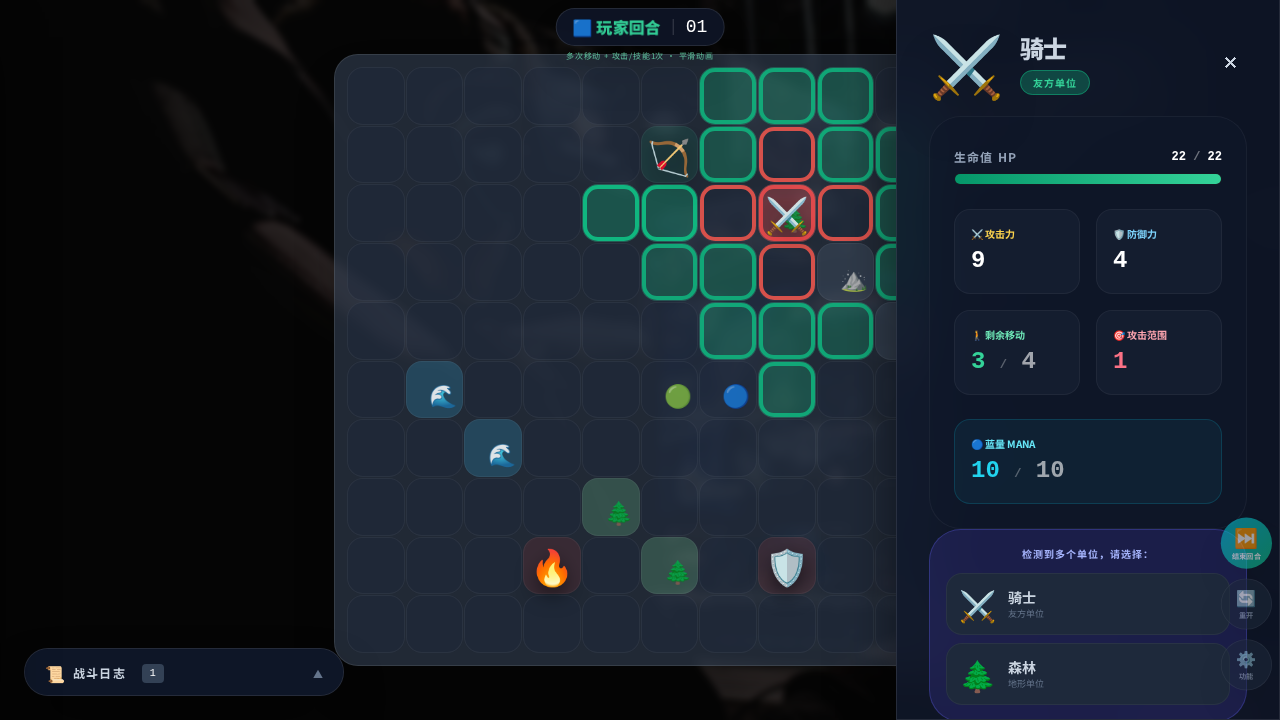
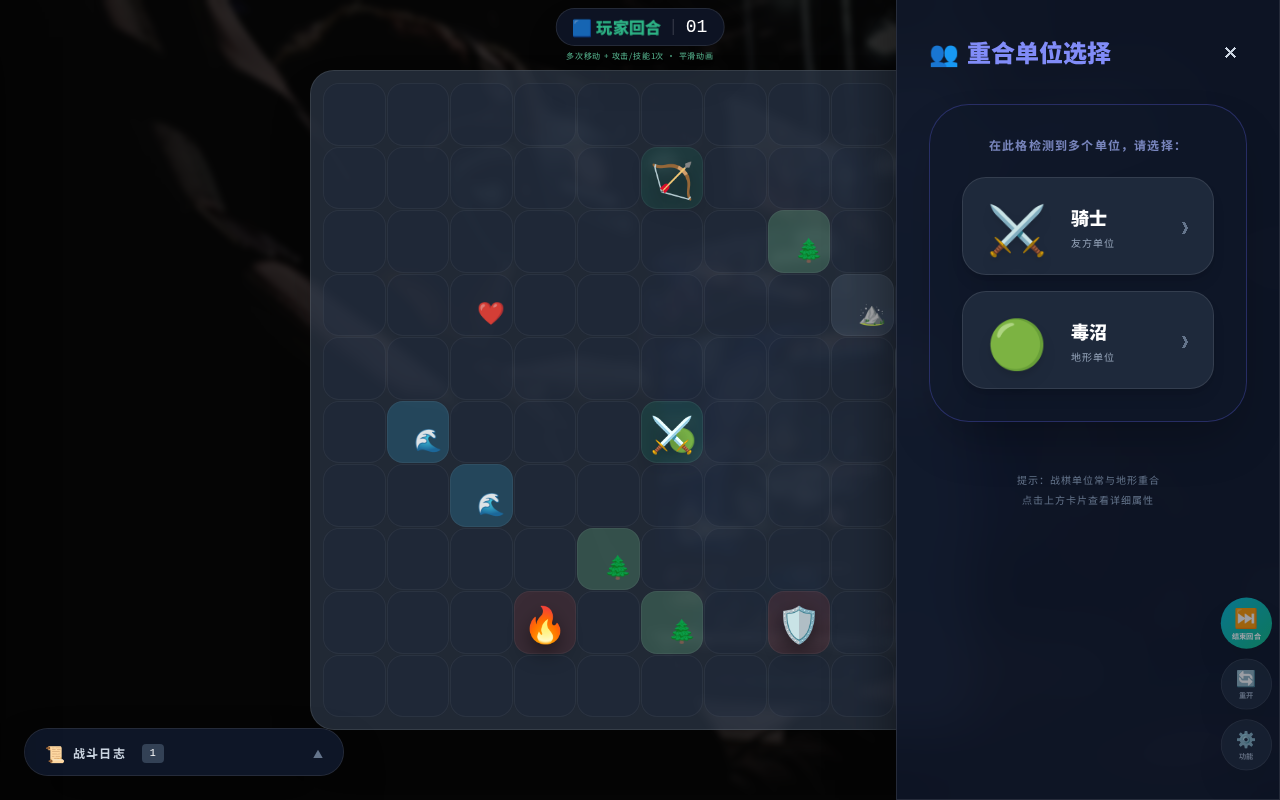
feat: enhance overlap selection UI and dynamic movement range
- Refactored Overlap Selector to occupy the full sidebar, providing a cleaner interface for choosing between overlapping units (combat vs terrain).
- Optimized movement highlighting to dynamically shrink based on the unit's actual remaining movement points.
- Simplified range calculation logic by removing redundant 'forestModifier' and consistently using the unified status-aware range functions.
- Fully removed 'ultimate skill' distinction from the editor UI.
- Verified all logic with unit tests and Playwright E2E scripts.

diff --git a/script.js b/script.js
@@ -771,7 +771,6 @@ export function createCombatUnit(base) {
         skills: [...(template.skills || [])],
         remainingMove: template.moveRange,
         hasAttacked: false,
-        forestModifier: false,
         skillUsedThisTurn: false,
         activeEffects: []
     };
@@ -1025,8 +1024,7 @@ function highlightRanges() {
         return;
     }
 
-    let maxMove = (sel.team === "friendly") ? entity.remainingMove : getEffectiveMoveRange(entity);
-    if (maxMove <= 0) maxMove = 0;
+    let maxMove = getEffectiveMoveRange(entity);
     const reachable = calculateReachable(entity.row, entity.col, maxMove, entity);
 
     let effectiveAtk = getEffectiveAtkRange(entity);
@@ -1072,7 +1070,6 @@ export function calculateReachable(startRow, startCol, maxMove, unit) {
     distMap[`${startRow},${startCol}`] = 0;
 
     let effectiveMax = maxMove;
-    if (unit && unit.forestModifier) effectiveMax = Math.max(0, maxMove - 1);
 
     while (queue.length > 0) {
         const {r, c, dist} = queue.shift();
@@ -1310,7 +1307,7 @@ function handleCellClick(row, col) {
         if (sel && sel.team === "friendly" && combatTeam === "enemy") {
             const actor = getUnit("friendly", sel.id);
             if (actor && !actor.hasAttacked) {
-                const effectiveAtk = actor.forestModifier ? Math.max(1, actor.atkRange - 1) : actor.atkRange;
+                const effectiveAtk = getEffectiveAtkRange(actor);
                 if (isInRange(actor, row, col, effectiveAtk)) {
                     performAttack(actor, combatUnit);
                     actor.hasAttacked = true;
@@ -1347,17 +1344,25 @@ function handleCellClick(row, col) {
 function showOverlapSelector(combatUnit, combatTeam, terrainUnit) {
     const selector = document.getElementById("overlap-selector");
     const list = document.getElementById("overlap-list");
+    const selectedPanel = document.getElementById("selected-panel");
+    const editorPanel = document.getElementById("editor-panel");
+
+    // 隐藏其他面板
+    selectedPanel.classList.add("hidden");
+    editorPanel.classList.add("hidden");
+
     selector.classList.remove("hidden");
     list.innerHTML = "";
 
     const btnCombat = document.createElement("button");
-    btnCombat.className = "flex items-center gap-3 p-3 bg-slate-800 hover:bg-slate-700 rounded-2xl border border-white/5 transition-all text-left";
+    btnCombat.className = "flex items-center gap-6 p-6 bg-slate-800 hover:bg-slate-700 rounded-3xl border border-white/10 transition-all text-left active:scale-[0.98] shadow-lg";
     btnCombat.innerHTML = `
-        <span class="text-3xl">${combatUnit.emoji}</span>
+        <span class="text-5xl drop-shadow-lg">${combatUnit.emoji}</span>
         <div class="flex-1">
-            <div class="font-bold text-sm">${combatUnit.name}</div>
-            <div class="text-[9px] text-slate-500 uppercase">${combatTeam === "friendly" ? "友方单位" : "敌方单位"}</div>
+            <div class="font-black text-lg text-white">${combatUnit.name}</div>
+            <div class="text-[10px] text-slate-400 uppercase tracking-widest mt-1">${combatTeam === "friendly" ? "友方单位" : "敌方单位"}</div>
         </div>
+        <span class="text-slate-500">❯</span>
     `;
     btnCombat.onclick = () => {
         selector.classList.add("hidden");
@@ -1365,13 +1370,14 @@ function showOverlapSelector(combatUnit, combatTeam, terrainUnit) {
     };
 
     const btnTerrain = document.createElement("button");
-    btnTerrain.className = "flex items-center gap-3 p-3 bg-slate-800 hover:bg-slate-700 rounded-2xl border border-white/5 transition-all text-left";
+    btnTerrain.className = "flex items-center gap-6 p-6 bg-slate-800 hover:bg-slate-700 rounded-3xl border border-white/10 transition-all text-left active:scale-[0.98] shadow-lg";
     btnTerrain.innerHTML = `
-        <span class="text-3xl">${terrainUnit.emoji}</span>
+        <span class="text-5xl drop-shadow-lg">${terrainUnit.emoji}</span>
         <div class="flex-1">
-            <div class="font-bold text-sm">${terrainUnit.name}</div>
-            <div class="text-[9px] text-slate-500 uppercase">地形单位</div>
+            <div class="font-black text-lg text-white">${terrainUnit.name}</div>
+            <div class="text-[10px] text-slate-400 uppercase tracking-widest mt-1">地形单位</div>
         </div>
+        <span class="text-slate-500">❯</span>
     `;
     btnTerrain.onclick = () => {
         selector.classList.add("hidden");
@@ -1381,9 +1387,8 @@ function showOverlapSelector(combatUnit, combatTeam, terrainUnit) {
     list.appendChild(btnCombat);
     list.appendChild(btnTerrain);
 
-    // 自动打开面板
+    // 自动打开面板容器
     toggleInfoPanel(true);
-    document.getElementById("selected-panel").classList.remove("hidden");
 }
 
 /* ====================== 编辑模式核心（支持空格子新增/复制 + 位置移动） ====================== */
@@ -1579,12 +1584,6 @@ function renderEditForm(isBack = false) {
                         <button onclick="pushEditorState(showAddSkillForm)" class="text-[10px] px-3 py-1 bg-purple-600/40 hover:bg-purple-600/60 rounded-lg border border-purple-500/30">+ 新增技能</button>
                     </div>
                     <div id="edit-normal-skills" class="space-y-2"></div>
-                    <div class="mt-4">
-                        <label class="block text-[10px] font-bold text-slate-500 mb-1 tracking-widest uppercase">终极技能</label>
-                        <select id="edit-ult-skill" class="editor-input w-full px-4 py-3 rounded-xl">
-                            ${Object.keys(GAME_CONFIG.SKILLS).map(k => `<option value="${k}" ${unit.ultSkill === k ? 'selected' : ''}>${GAME_CONFIG.SKILLS[k].name}</option>`).join('')}
-                        </select>
-                    </div>
                 </div>`;
         } else {
             html += `
@@ -2472,9 +2471,8 @@ function updateSelectedPanel() {
     if (!STATE.editMode) {
         panel.classList.remove("hidden");
         editor.classList.add("hidden");
+        document.getElementById("overlap-selector").classList.add("hidden");
         toggleInfoPanel(true);
-        // 如果没有正在进行重叠选择，且当前选中了单位，则隐藏选择器（除非就是为了重叠选择打开的）
-        if (STATE.selected) document.getElementById("overlap-selector").classList.add("hidden");
     }
 
     const isTerrain = STATE.selected.team === "terrain";
@@ -3069,7 +3067,6 @@ function resetActionsForTeam(team) {
         if (u.hp > 0) {
             u.remainingMove = u.moveRange;
             u.hasAttacked = false;
-            u.forestModifier = false;
             u.skillUsedThisTurn = false;
         }
     });

diff --git a/index.html b/index.html
@@ -109,7 +109,7 @@
             <div class="h-1.5 w-12 bg-white/20 rounded-full mx-auto mt-4 mb-2 sm:hidden"></div>
 
             <div class="flex-1 overflow-y-auto p-6 sm:p-8 custom-scroll">
-                <div id="selected-panel" class="hidden">
+                <div id="selected-panel" class="hidden flex-1 flex flex-col">
                     <div class="flex items-center justify-between mb-6">
                         <div class="flex items-center gap-4">
                             <div id="selected-emoji" class="text-6xl drop-shadow-2xl"></div>
@@ -158,11 +158,6 @@
 
                     </div>
 
-                    <div id="overlap-selector" class="hidden bg-indigo-900/40 border border-indigo-500/30 rounded-[32px] p-4 mb-6">
-                        <div class="text-[10px] font-bold text-indigo-300 uppercase tracking-widest mb-3 text-center">检测到多个单位，请选择：</div>
-                        <div id="overlap-list" class="flex flex-col gap-2"></div>
-                    </div>
-
                     <div id="active-effects-container" class="pt-6 border-t border-white/5 mt-4">
                         <div class="text-[10px] font-bold uppercase tracking-widest text-purple-300 mb-3 opacity-60">当前效果 / 属性</div>
                         <div id="active-effects-list" class="flex flex-wrap gap-2 min-h-[32px]"></div>
@@ -176,6 +171,22 @@
                     <div id="terrain-desc" class="hidden bg-slate-900/60 rounded-[32px] p-6 border border-white/5">
                         <p id="terrain-desc-text" class="text-slate-300 leading-relaxed"></p>
                         <div class="text-[10px] text-slate-500 mt-4 pt-4 border-t border-white/10 uppercase tracking-widest">地形单位 • 不可攻击</div>
+                    </div>
+                </div>
+
+                <div id="overlap-selector" class="hidden flex-1 flex flex-col">
+                    <div class="flex items-center justify-between mb-8">
+                        <div class="text-indigo-400 font-black text-2xl flex items-center gap-2"><span>👥</span> 重合单位选择</div>
+                        <button onclick="deselectUnit()" class="p-2 hover:bg-white/10 rounded-full transition-colors">✕</button>
+                    </div>
+
+                    <div class="bg-slate-900/60 border border-indigo-500/30 rounded-[40px] p-8 space-y-6 shadow-2xl">
+                        <div class="text-xs font-bold text-indigo-300 uppercase tracking-widest text-center opacity-70">在此格检测到多个单位，请选择：</div>
+                        <div id="overlap-list" class="flex flex-col gap-4"></div>
+                    </div>
+
+                    <div class="mt-12 text-center text-slate-500 text-[10px] uppercase tracking-widest leading-loose">
+                        提示：战棋单位常与地形重合<br>点击上方卡片查看详细属性
                     </div>
                 </div>
 

diff --git a/verify_changes_final.py b/verify_changes_final.py
@@ -1,0 +1,89 @@
+import asyncio
+from playwright.async_api import async_playwright
+import subprocess
+import time
+
+async def verify_changes():
+    subprocess.run(["fuser", "-k", "8083/tcp"], stderr=subprocess.DEVNULL)
+    server_process = subprocess.Popen(["npx", "http-server", "-p", "8083"], cwd="/app")
+    time.sleep(2)
+
+    async with async_playwright() as p:
+        browser = await p.chromium.launch()
+        context = await browser.new_context(viewport={'width': 1280, 'height': 800})
+        page = await context.new_page()
+
+        await page.goto("http://localhost:8083")
+
+        # 1. Verify Top Status Bar shrinkage
+        await page.screenshot(path="/app/verification/screenshots/top_status_bar.png")
+
+        # 2. Verify Overlap Selector UI
+        # Manually set an overlap state for testing
+        await page.evaluate("""() => {
+            const knight = STATE.friendlyUnits.find(u => u.type === 'knight');
+            const swamp = STATE.terrainUnits.find(t => t.type === 'swamp');
+            knight.row = swamp.row;
+            knight.col = swamp.col;
+            renderBoard();
+        }""")
+
+        # Click the swamp cell (5,5)
+        await page.click('[data-row="5"][data-col="5"]')
+        await asyncio.sleep(1)
+
+        overlap_selector = page.locator('#overlap-selector')
+        is_visible = await overlap_selector.is_visible()
+        print(f"Overlap selector visible: {is_visible}")
+        await page.screenshot(path="/app/verification/screenshots/overlap_selector.png")
+
+        # Select Combat unit from overlap
+        await page.click('#overlap-list button:has-text("骑士")')
+        await asyncio.sleep(0.5)
+
+        selected_panel = page.locator('#selected-panel')
+        is_selected_visible = await selected_panel.is_visible()
+        print(f"Selected panel visible after selection: {is_selected_visible}")
+
+        # 3. Verify Dynamic Movement Range
+        await page.evaluate("() => { resetGame(); }")
+        await page.click('[data-row="1"][data-col="2"]') # Select knight
+
+        # Force a move via script to ensure it happens
+        await page.evaluate("""() => {
+            const knight = STATE.friendlyUnits.find(u => u.type === 'knight');
+            knight.row = 3;
+            knight.col = 2;
+            knight.remainingMove = 2;
+            renderBoard();
+        }""")
+
+        # Check highlights
+        # Cell (5,2) is dist 2 from (3,2). Should be highlighted.
+        # Cell (6,2) is dist 3 from (3,2). Should NOT be highlighted.
+        has_move_5_2 = await page.locator('[data-row="5"][data-col="2"]').evaluate("el => el.classList.contains('highlight-move')")
+        has_move_6_2 = await page.locator('[data-row="6"][data-col="2"]').evaluate("el => el.classList.contains('highlight-move')")
+        print(f"Cell (5,2) highlighted: {has_move_5_2}")
+        print(f"Cell (6,2) highlighted: {has_move_6_2}")
+        await page.screenshot(path="/app/verification/screenshots/movement_highlighting.png")
+
+        # 4. Verify Skills unification
+        skills_count = await page.locator('#skills-list button').count()
+        print(f"Knight skills count: {skills_count}")
+
+        # Check Editor unification
+        await page.click('button:has-text("功能")')
+        await page.click('#edit-mode-btn')
+        await page.click('[data-row="3"][data-col="2"]')
+
+        # Check skill management section
+        has_ult_select = await page.locator('#edit-ult-skill').is_visible()
+        print(f"Editor has ultimate skill selector: {has_ult_select}")
+        await page.screenshot(path="/app/verification/screenshots/editor_unified_skills.png")
+
+        await browser.close()
+
+    server_process.terminate()
+
+if __name__ == "__main__":
+    asyncio.run(verify_changes())
